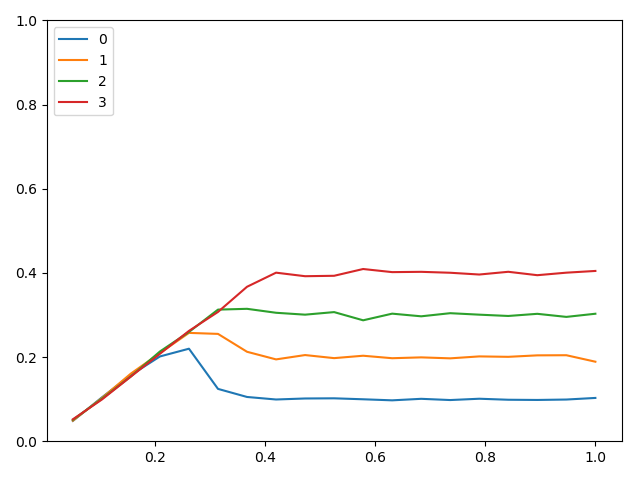
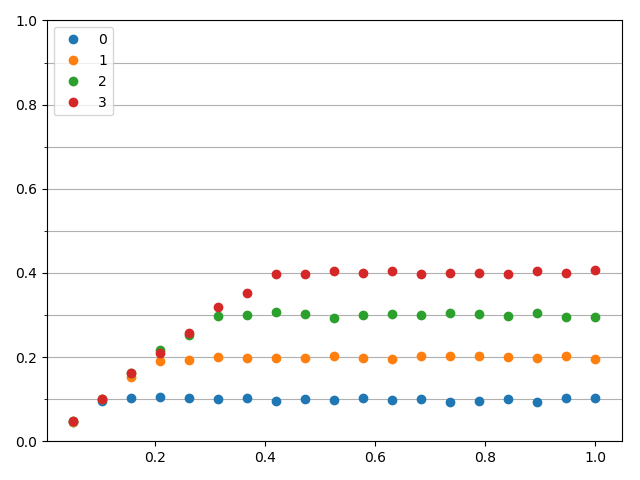
Added pim for both wpim and sm

Changed region(s): [[0.0938, 0.5312, 0.9375, 0.9062], [0.0938, 0.0625, 0.125, 0.2188]]

diff --git a/lib/statistical.py b/lib/statistical.py
@@ -64,6 +64,8 @@ class StatisticalSwitch(BaseSwitch):
                 # Now chooses what to grant
                 chosen_output = np.random.choice(input_reqs[input], p=virtual_grants)
                 if len(self.input_to_output_queue[(input, chosen_output)]) >= 1:
+                    matched_inputs.append(input)
+                    matched_outputs.append(chosen_output)
                     final_decision[input] = chosen_output
 
 
@@ -99,8 +101,38 @@ class StatisticalSwitch(BaseSwitch):
                 final_decision[input] = output
         '''
 
+        def run_pim_once():
+            # Step 1: Send requests to output queues.
+            received_requests = [[] for _ in range(self.num_output)]
+            for input in range(self.num_input):
+                if input in matched_inputs:
+                    continue
+                for output in range(self.num_output):
+                    if len(self.input_to_output_queue[(input, output)]) != 0:
+                        received_requests[output].append(input)
+
+            # Step 2: Choose one of the request.
+            reqs_to_inputs = {}
+            for output in range(self.num_output):
+                if output in matched_outputs:
+                    continue
+                if len(received_requests[output]) > 0:
+                    chosen_input = random.choice(received_requests[output])
+                    reqs_to_inputs[chosen_input] = reqs_to_inputs.get(
+                        chosen_input, []) + [output]
+
+            # Step 3: Input chooses one of the output queue
+            for input in reqs_to_inputs:
+                output = random.choice(reqs_to_inputs[input])
+                matched_inputs.append(input)
+                matched_outputs.append(output)
+                final_decision[input] = output
+
         for _ in range(self.num_iteration):
             run_wpim_once()
+
+        for _ in range(self.num_iteration):
+            run_pim_once()
 
         return final_decision.items()
 

diff --git a/lib/wpim.py b/lib/wpim.py
@@ -67,8 +67,38 @@ class WPimSwitch(BaseSwitch):
                 # Increate the sent credits.
                 self.sent_credits[input][output] += self.get_outstanding_packet(input, output).packet_size
 
+        def run_pim_once():
+            # Step 1: Send requests to output queues.
+            received_requests = [[] for _ in range(self.num_output)]
+            for input in range(self.num_input):
+                if input in matched_inputs:
+                    continue
+                for output in range(self.num_output):
+                    if len(self.input_to_output_queue[(input, output)]) != 0:
+                        received_requests[output].append(input)
+
+            # Step 2: Choose one of the request.
+            reqs_to_inputs = {}
+            for output in range(self.num_output):
+                if output in matched_outputs:
+                    continue
+                if len(received_requests[output]) > 0:
+                    chosen_input = random.choice(received_requests[output])
+                    reqs_to_inputs[chosen_input] = reqs_to_inputs.get(
+                        chosen_input, []) + [output]
+
+            # Step 3: Input chooses one of the output queue
+            for input in reqs_to_inputs:
+                output = random.choice(reqs_to_inputs[input])
+                matched_inputs.append(input)
+                matched_outputs.append(output)
+                final_decision[input] = output
+
         for _ in range(self.num_iteration):
             run_wpim_once()
+
+        for _ in range(self.num_iteration):
+            run_pim_once()
 
         self.frame_time += 1
         if self.frame_time >= self.frame_length:

diff --git a/lib/experiments/wpim_fig6.py b/lib/experiments/wpim_fig6.py
@@ -6,18 +6,14 @@ from lib.plot import draw_plot
 import numpy as np
 
 loads = np.linspace(0.05, 1, 19)
-credit = np.array([[1, 0, 0, 0], [2, 0, 0, 0], [3, 0, 0, 0], [4, 0, 0, 0]])
+credit = np.array([[100, 0, 0, 0], [200, 0, 0, 0], [300, 0, 0, 0], [400, 0, 0, 0]])
 credit_stat = np.array([[1], [2], [3], [4]])
 
-data = [np.zeros((4, len(loads))) for _ in range(4)]
+data = [np.zeros((4, len(loads))) for _ in range(3)]
 total_run = 10000
 
 for l, load in enumerate(loads):
-    '''
-    switches = [PimSwitch(4, 4), StatisticalSwitch(4, 4, credit), WPimSwitch(4, 4, credit,
-                                                                             frame_length=10)]
-    '''
-    switches = [StatisticalSwitch(4, 1, credit_stat, 10)]
+    switches = [PimSwitch(4, 4), StatisticalSwitch(4, 1, credit_stat, 10), WPimSwitch(4, 4, credit, frame_length=1000)]
     for i, switch in enumerate(switches):
         gen = OutputContentionInputGenerator(switch, load, 4, 0, [0, 1, 2, 3])
         gen.run(total_run)
@@ -29,7 +25,4 @@ for l, load in enumerate(loads):
             data[i][j][l] = normalized_bandwidth[j]
 
 for i, d in enumerate(data):
-    draw_plot(loads, d, [str(i) for i in range(4)], ylim=[0, 1], figure_index=i)
-
-
-
+    draw_plot(loads, d, [str(i) for i in range(4)], ylim=[0, 1], figure_index=i, spacing=0.1)

diff --git a/lib/plot.py b/lib/plot.py
@@ -1,16 +1,22 @@
 import matplotlib.pyplot as plt
 import numpy as np
 from typing import List, AnyStr
+from matplotlib.ticker import MultipleLocator
 
 
 # y is a 2d array of shape (num_line, len(x))
-def draw_plot(x, y: np.ndarray, legends: List[AnyStr], ylim=None, figure_index=0, scale=None):
+def draw_plot(x, y: np.ndarray, legends: List[AnyStr], ylim=None, figure_index=0, scale=None, spacing=None):
     assert y.shape[1] == len(x)
     assert len(legends) == y.shape[0]
 
     plt.figure(figure_index)
     for i in range(y.shape[0]):
-        plt.plot(x, y[i])
+        plt.plot(x, y[i], 'o')
+
+    if spacing:
+        minorLocator = MultipleLocator(spacing)
+        plt.axes().yaxis.set_minor_locator(minorLocator)
+        plt.axes().grid(which='minor')
 
     if ylim is not None:
         axes = plt.axes()

diff --git a/lib/base_switch.py b/lib/base_switch.py
@@ -38,8 +38,7 @@ class BaseSwitch:
         inputs = set(input for input, _ in queues_to_pop)
         outputs = set(output for _, output in queues_to_pop)
 
-        assert len(inputs) == len(outputs) == len(queues_to_pop)
-
+        #assert len(inputs) == len(outputs) == len(queues_to_pop)
         for input, output in queues_to_pop:
             processed_packet = self.input_to_output_queue[(input,
                                                            output)].popleft()
